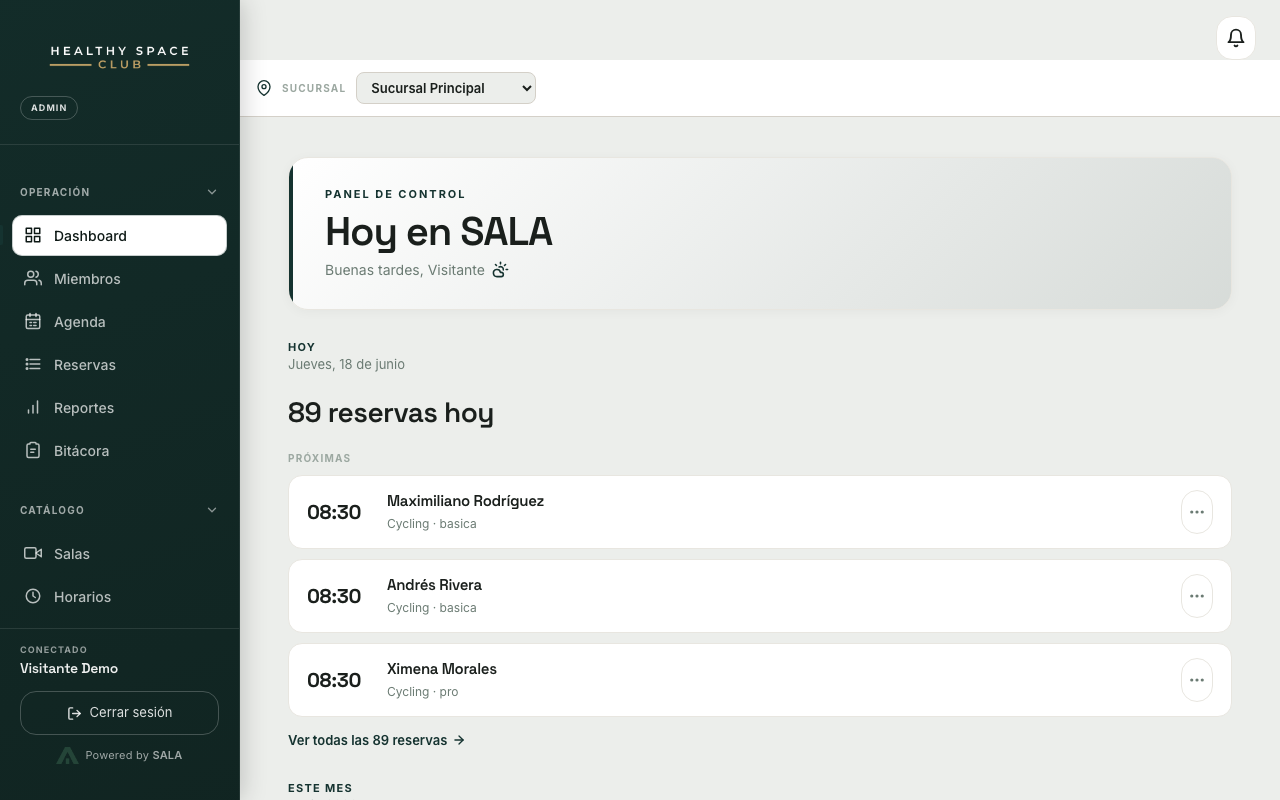
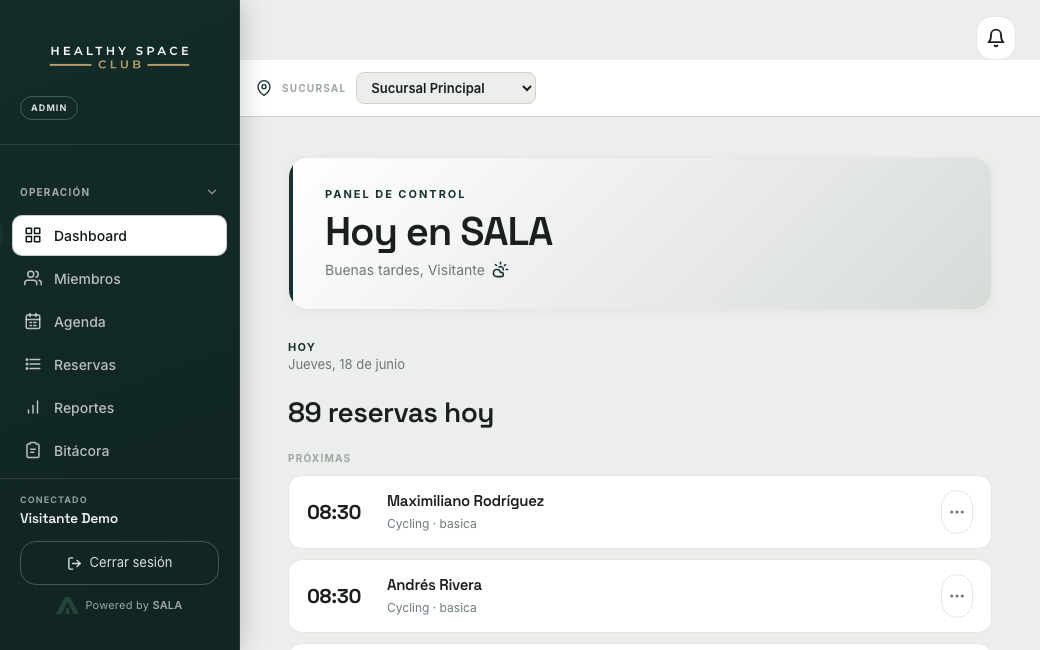
fix(landing): capturas de escritorio más grandes — sin barra de ventana, showcase 1280px, captura 1040px
- BrowserFrame: saca la barra superior (3 puntos) → solo la captura.
- Showcase maxWidth 1100→1280 (marcos más grandes en desktop).
- Capturas de escritorio a 1040×650 (16:10) → la UI de la app se ve más grande en el marco.

diff --git a/src/public/components/DeviceFrame.tsx b/src/public/components/DeviceFrame.tsx
@@ -29,12 +29,14 @@ function Placeholder({ label }: { label: string }) {
   );
 }
 
-/** Marco de ventana (macOS) para capturas de escritorio (16:10). Sin barra de
- *  URL — solo el titlebar con los 3 puntos, para que la captura mande. */
+/** Marco para capturas de escritorio (16:10). Sin barra de ventana — solo la
+ *  captura en un marco redondeado, para que la imagen mande. */
 export function BrowserFrame({ src, alt }: { src?: string; alt: string }) {
   return (
     <div
       style={{
+        position: 'relative',
+        aspectRatio: '16 / 10',
         borderRadius: '14px',
         overflow: 'hidden',
         border: '1px solid var(--sala-border)',
@@ -42,28 +44,11 @@ export function BrowserFrame({ src, alt }: { src?: string; alt: string }) {
         boxShadow: '0 30px 70px rgba(10, 15, 12, 0.28)'
       }}
     >
-      <div
-        aria-hidden="true"
-        style={{
-          display: 'flex',
-          alignItems: 'center',
-          gap: '6px',
-          padding: '9px 14px',
-          borderBottom: '1px solid var(--sala-border)',
-          background: 'var(--sala-bg)'
-        }}
-      >
-        {['#f0625a', '#f6be4f', '#5bcf66'].map((c) => (
-          <span key={c} style={{ width: 10, height: 10, borderRadius: '50%', background: c, opacity: 0.85 }} />
-        ))}
-      </div>
-      <div style={{ position: 'relative', aspectRatio: '16 / 10', background: 'var(--sala-surface)' }}>
-        {src ? (
-          <img src={src} alt={alt} style={{ position: 'absolute', inset: 0, width: '100%', height: '100%', objectFit: 'cover', display: 'block' }} />
-        ) : (
-          <Placeholder label="Vista del producto" />
-        )}
-      </div>
+      {src ? (
+        <img src={src} alt={alt} style={{ position: 'absolute', inset: 0, width: '100%', height: '100%', objectFit: 'cover', display: 'block' }} />
+      ) : (
+        <Placeholder label="Vista del producto" />
+      )}
     </div>
   );
 }

diff --git a/e2e/shots.spec.ts b/e2e/shots.spec.ts
@@ -30,7 +30,7 @@ async function entrarDemo(page: import('@playwright/test').Page, label: string) 
 test.describe.configure({ mode: 'serial', timeout: 90_000 });
 
 test('admin — dashboard + agenda', async ({ page }) => {
-  await page.setViewportSize({ width: 1280, height: 800 }); // 16:10 para el BrowserFrame
+  await page.setViewportSize({ width: 1040, height: 650 }); // 16:10 para el BrowserFrame
   await entrarDemo(page, 'Vista admin');
   await page.waitForURL(/\/admin/, { timeout: 40_000 });
   await page.waitForTimeout(3500);
@@ -44,7 +44,7 @@ test('admin — dashboard + agenda', async ({ page }) => {
 });
 
 test('recepción — check-in', async ({ page }) => {
-  await page.setViewportSize({ width: 1280, height: 800 }); // 16:10 para el BrowserFrame
+  await page.setViewportSize({ width: 1040, height: 650 }); // 16:10 para el BrowserFrame
   await entrarDemo(page, 'Vista recepción');
   await page.waitForURL(/\/recepcion/, { timeout: 40_000 });
   await page.waitForTimeout(3500);

diff --git a/src/public/pages/SalaLanding.tsx b/src/public/pages/SalaLanding.tsx
@@ -511,7 +511,7 @@ function Showcase() {
     <section
       style={{
         padding: 'clamp(40px, 7vw, 80px) clamp(16px, 5vw, 48px)',
-        maxWidth: '1100px',
+        maxWidth: '1280px',
         margin: '0 auto',
         display: 'flex',
         flexDirection: 'column',
